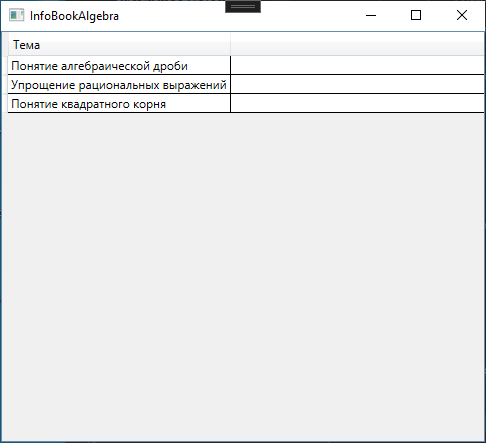
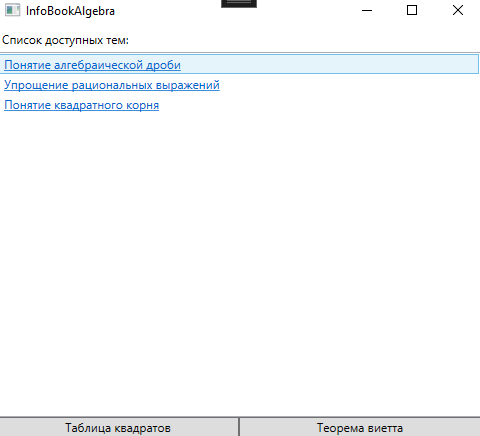
Update images to match recent updates

Changed region(s): [[0.0, 0.0, 1.0, 1.0], [0.4375, 0.0, 0.5625, 0.0298]]

diff --git a/README.md b/README.md
@@ -92,8 +92,8 @@ dotnet build
 </figure>
 <br>
 <figure>
-    <img src="docs/4.png" alt="Меню навигации">
-    <figcaption>Рисунок 4 - Меню навигации</figcaption>
+    <img src="docs/4.png" alt="Тема 2">
+    <figcaption>Рисунок 4 - Тема 2</figcaption>
 </figure>
 
 ---
